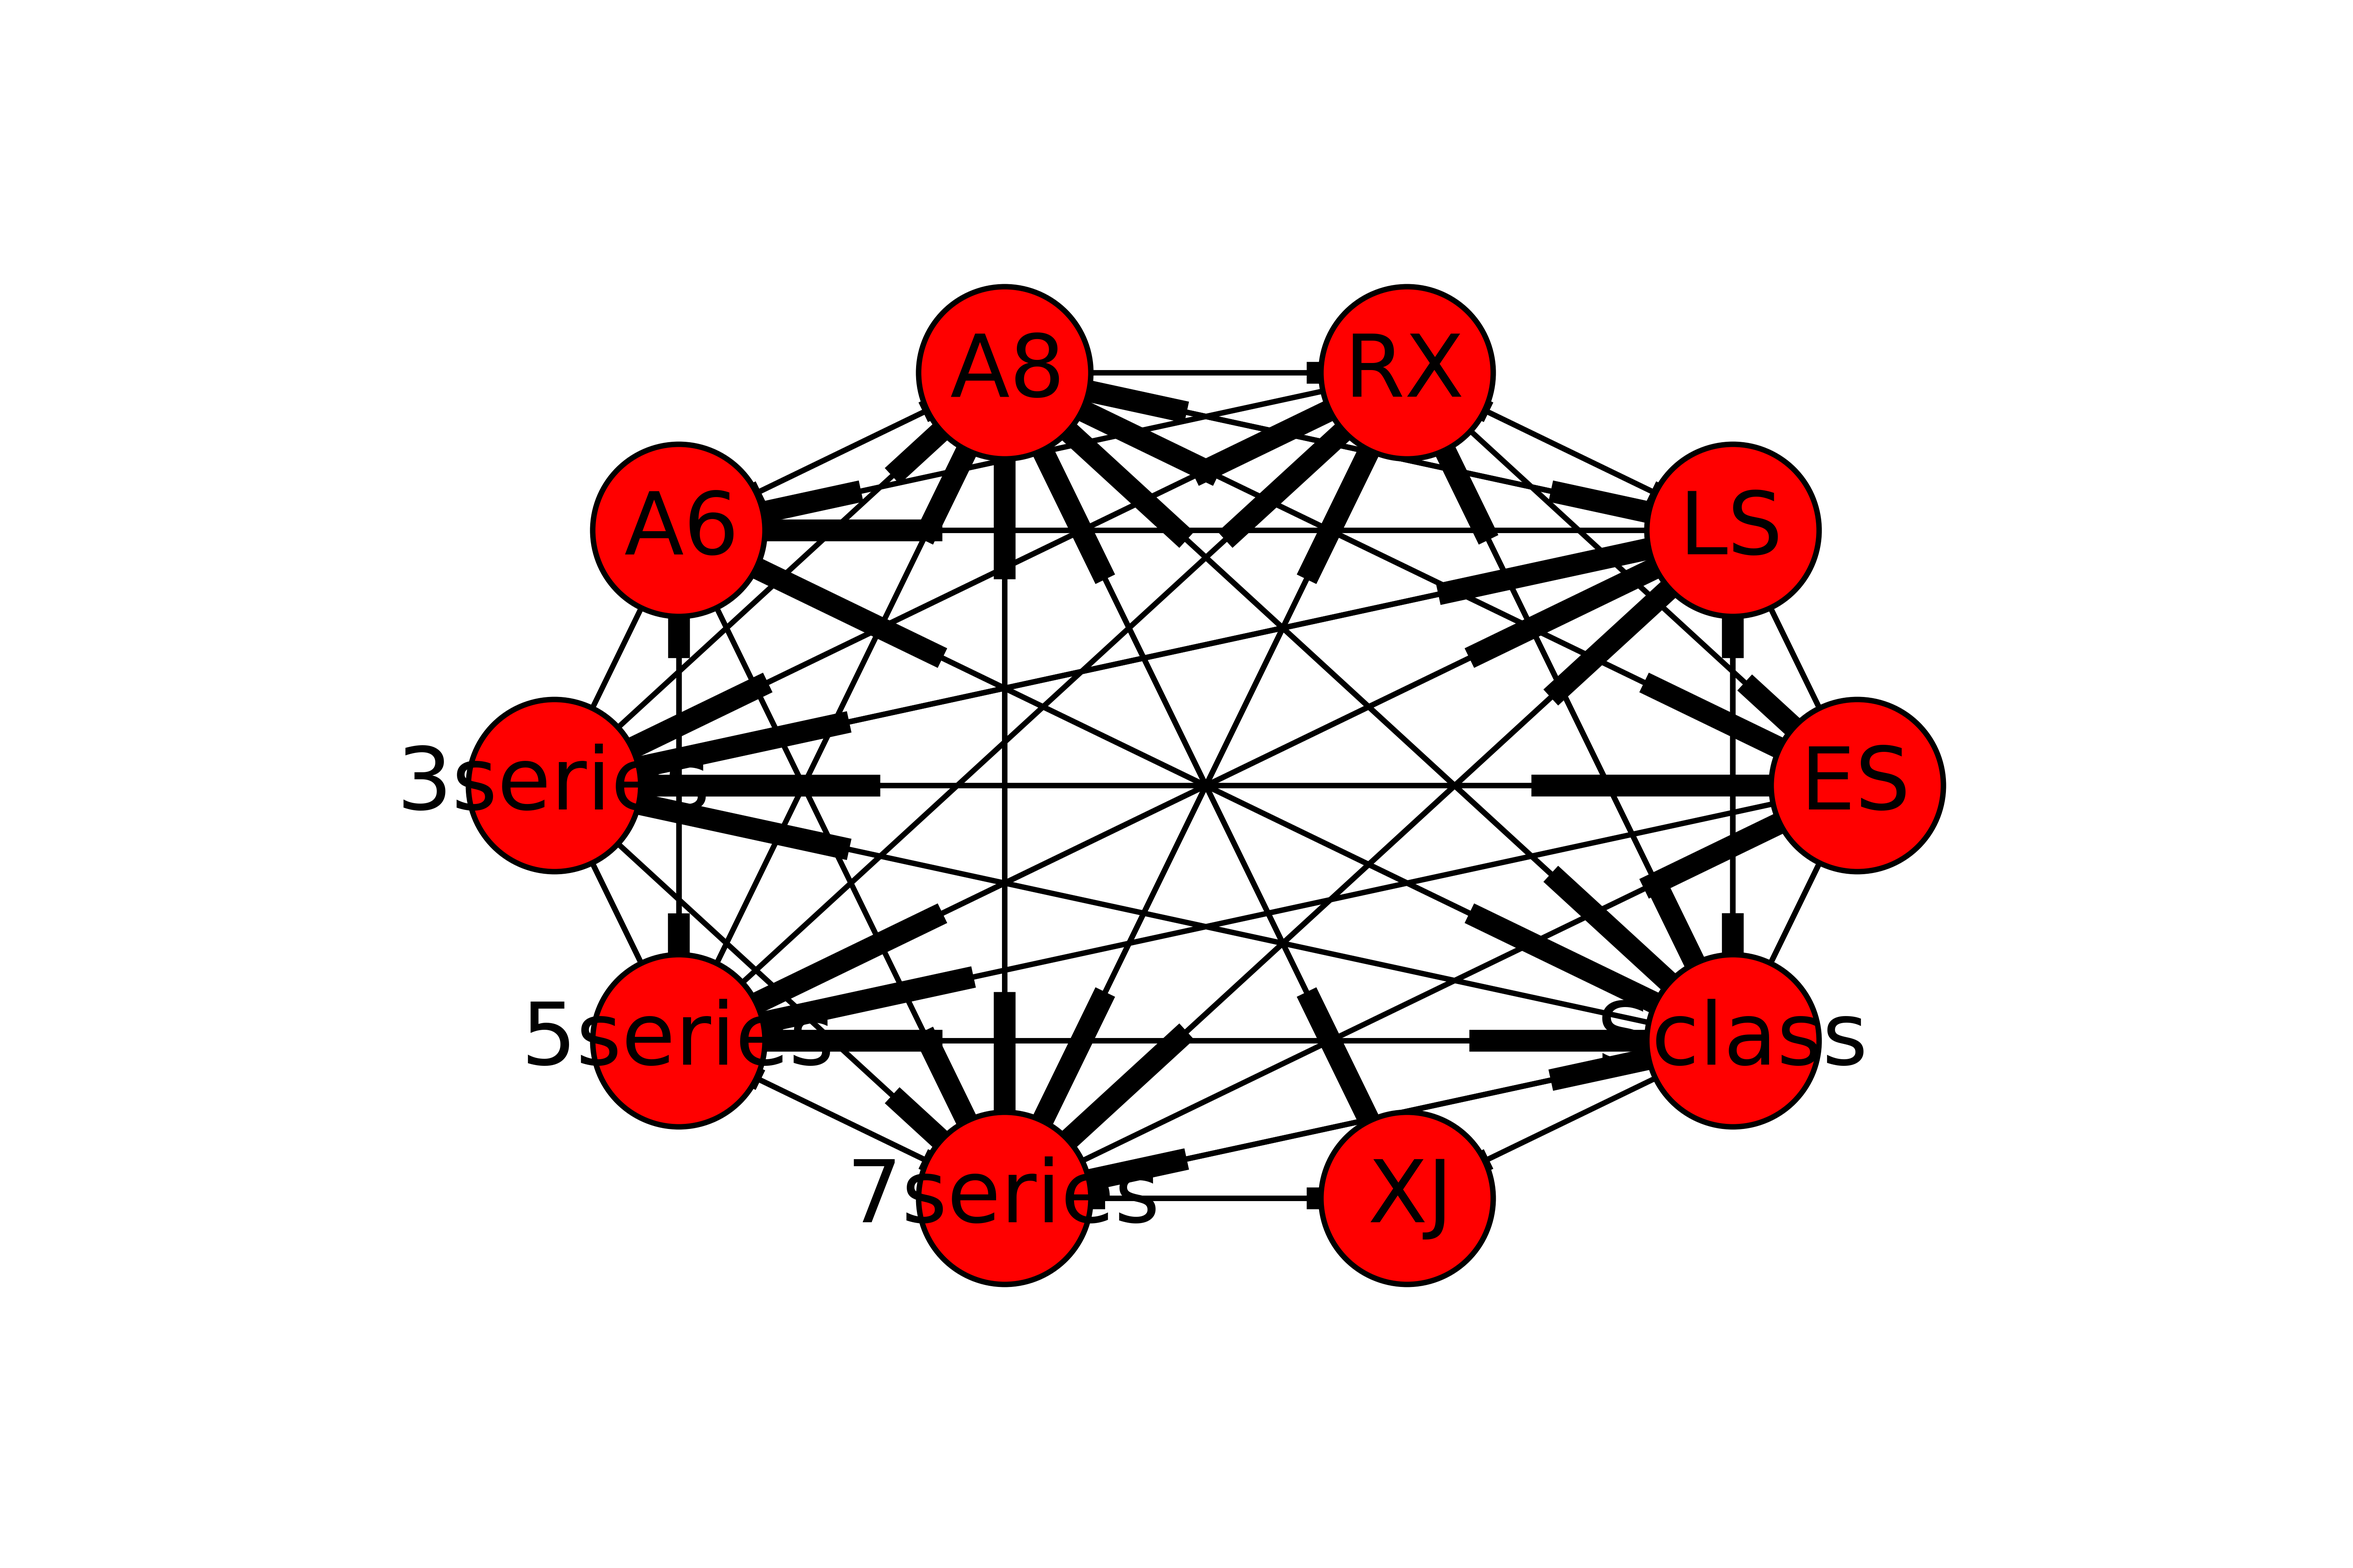
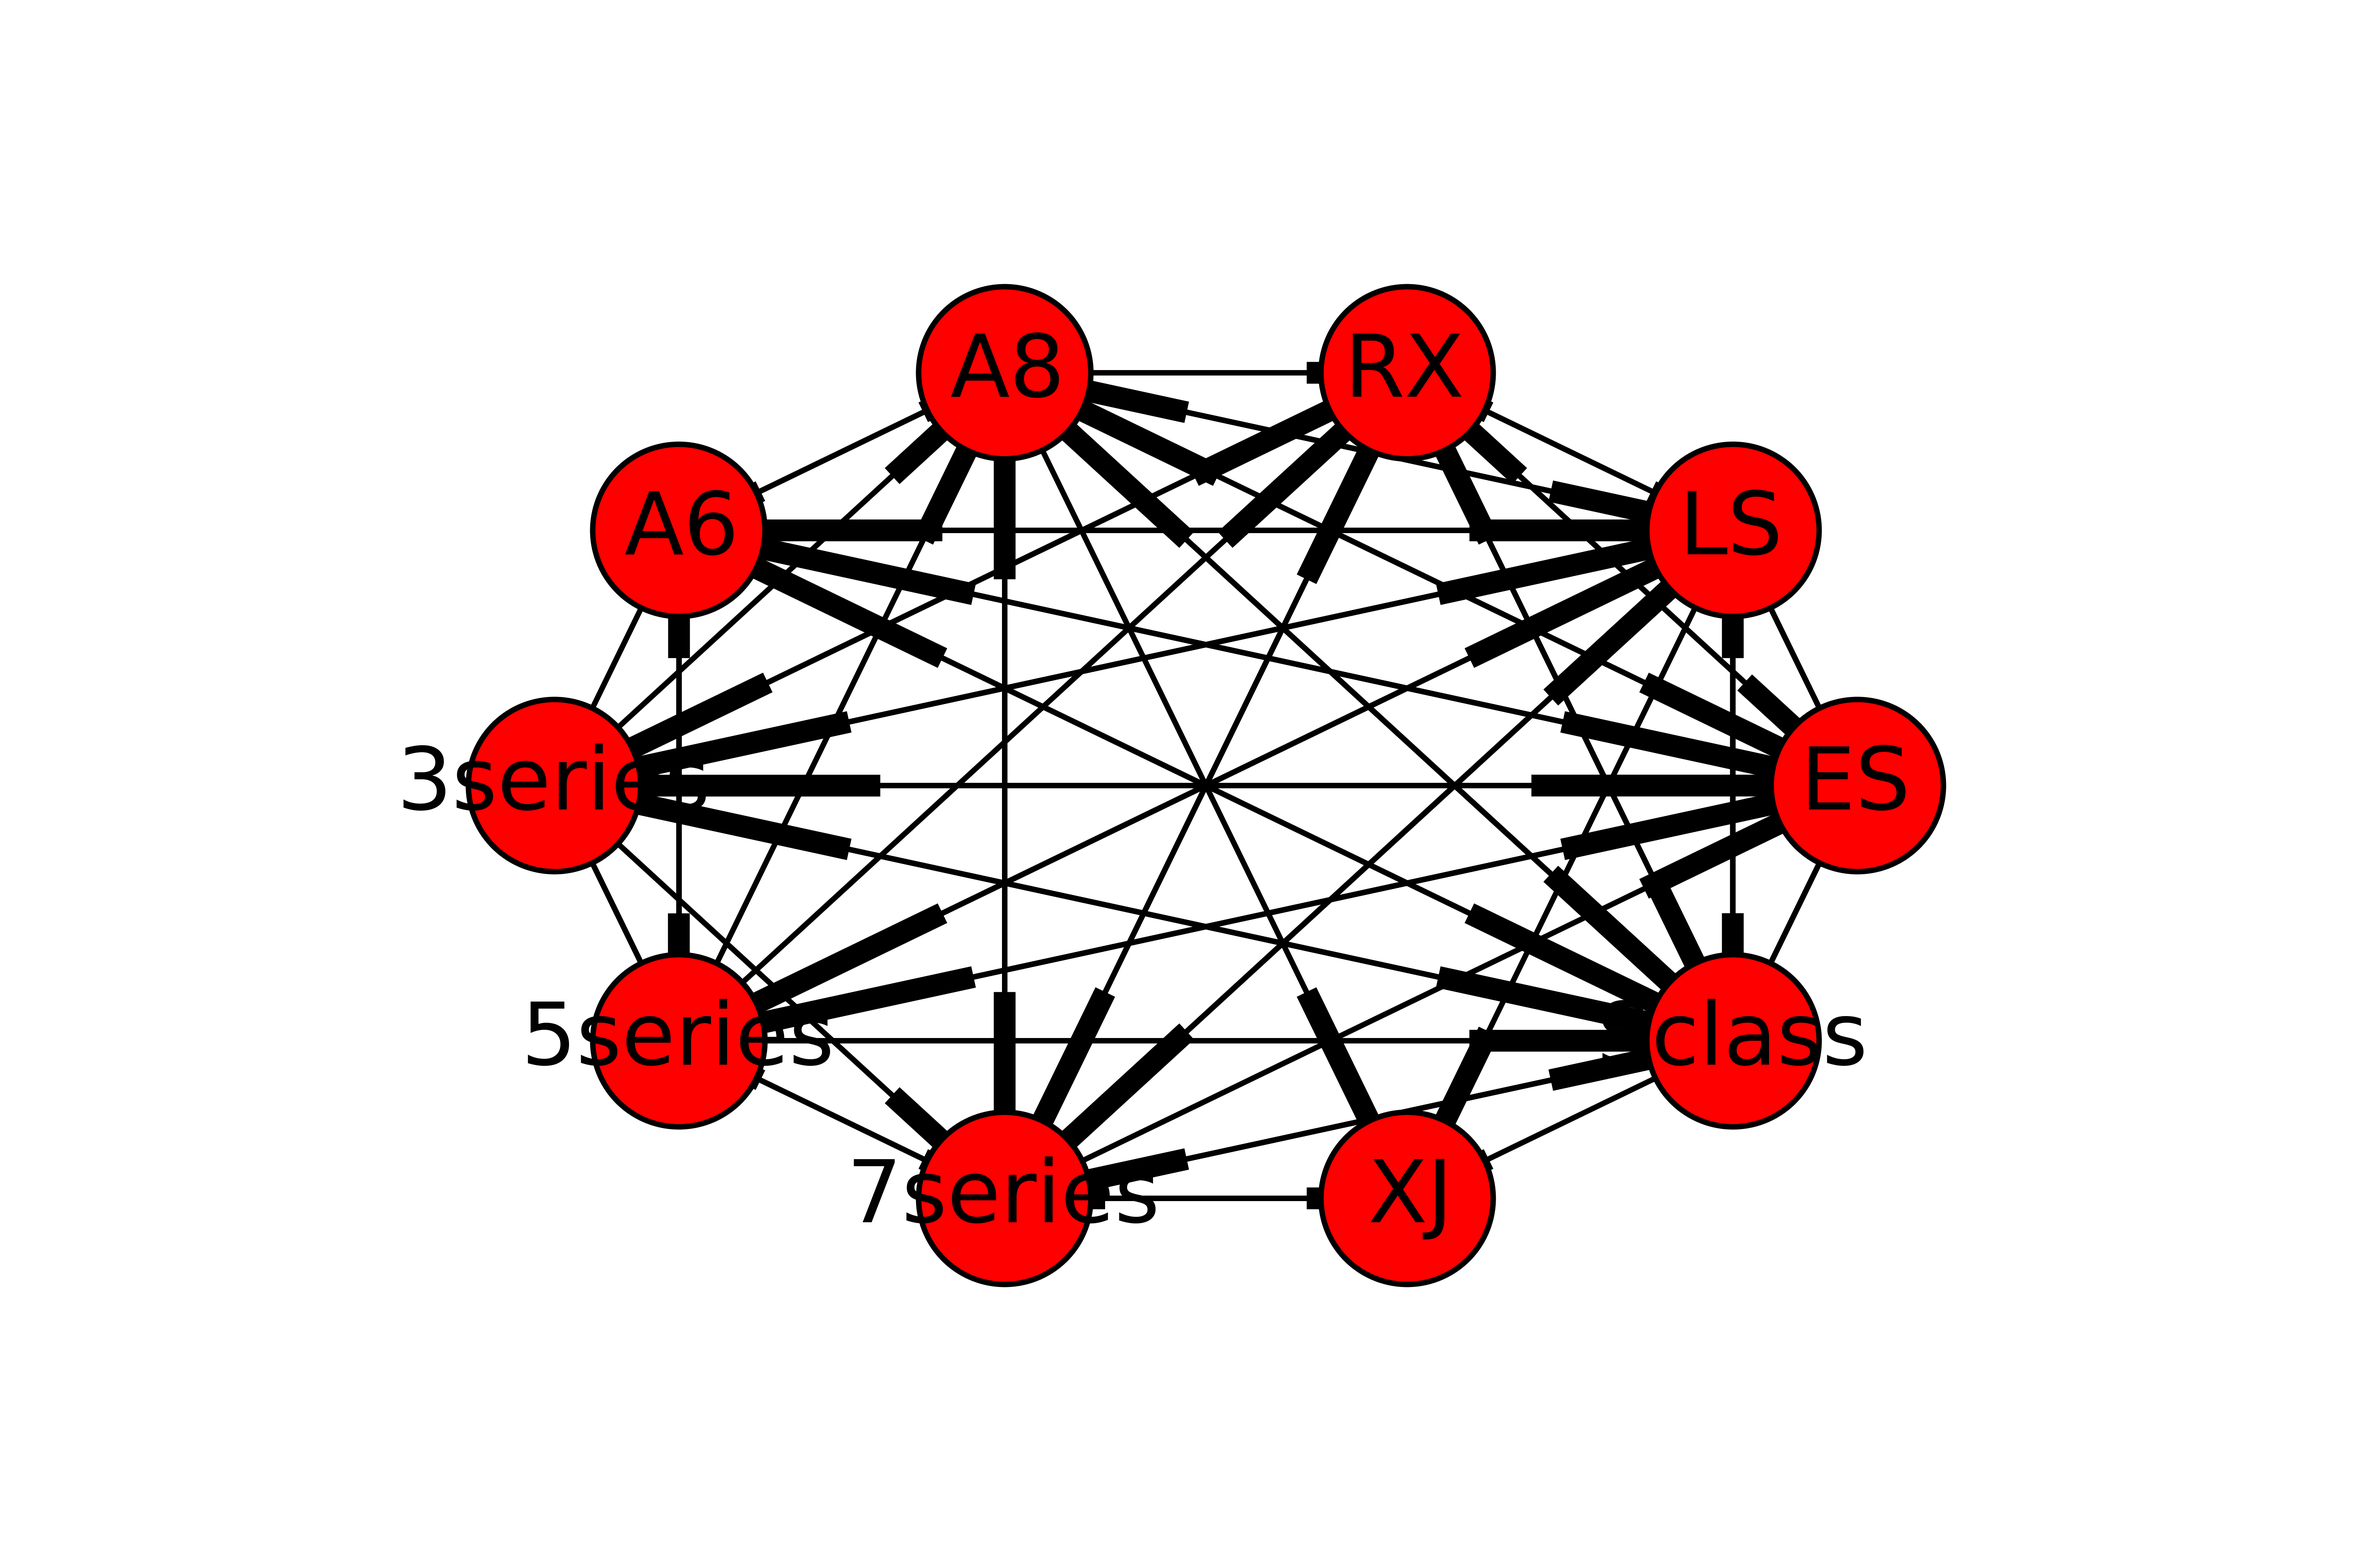
Updates to pagerank Part B

diff --git a/Group_Assignment_3/PartA.py b/Group_Assignment_3/PartA.py
@@ -16,9 +16,9 @@ rawsentiment = pd.read_csv(r'C:\Users\beins_000\Documents\GitHub\Text_Mining_MIS
 
 #----------For Part C--------
 
-rawsentiment1 = pd.read_csv(r'C:\Users\beins_000\Documents\GitHub\Text_Mining_MIS184N\Group_Assignment_3\take2senti.csv')
-#rawsentiment = rawsentiment1.drop(['Unnamed: 0','model_strings'], axis=1)
-rawsentiment = rawsentiment1.drop('Unnamed: 0', axis=1) #Testing bejans
+rawsentiment1 = pd.read_csv(r'C:\Users\beins_000\Documents\GitHub\Text_Mining_MIS184N\Group_Assignment_3\outputv3.csv')
+rawsentiment = rawsentiment1.drop(['Unnamed: 0','model_strings'], axis=1)
+#rawsentiment = rawsentiment1.drop('Unnamed: 0', axis=1) #Testing bejans
 lab_for_C = ['ES', 'LS', 'RX', 'A8', 'A6', '3series', '5series', '7series', 'XJ', 'Sclass']
 rawsentiment.columns = lab_for_C
 rawsentiment = rawsentiment * 5
@@ -133,7 +133,7 @@ FG.add_weighted_edges_from(node_list)
 
 for index, pref in enumerate(averages_df.loc[:,'Negative']): #Negatives
     if ~np.isnan(pref):
-        node_list.append((pd.Series(averages_df.loc[:,'Node 2'])[index],pd.Series(averages_df.loc[:,'Node 1'])[index],pref))
+        node_list.append((pd.Series(averages_df.loc[:,'Node 2'])[index],pd.Series(averages_df.loc[:,'Node 1'])[index],abs(pref)))
 FG.add_weighted_edges_from(node_list)
 
 
